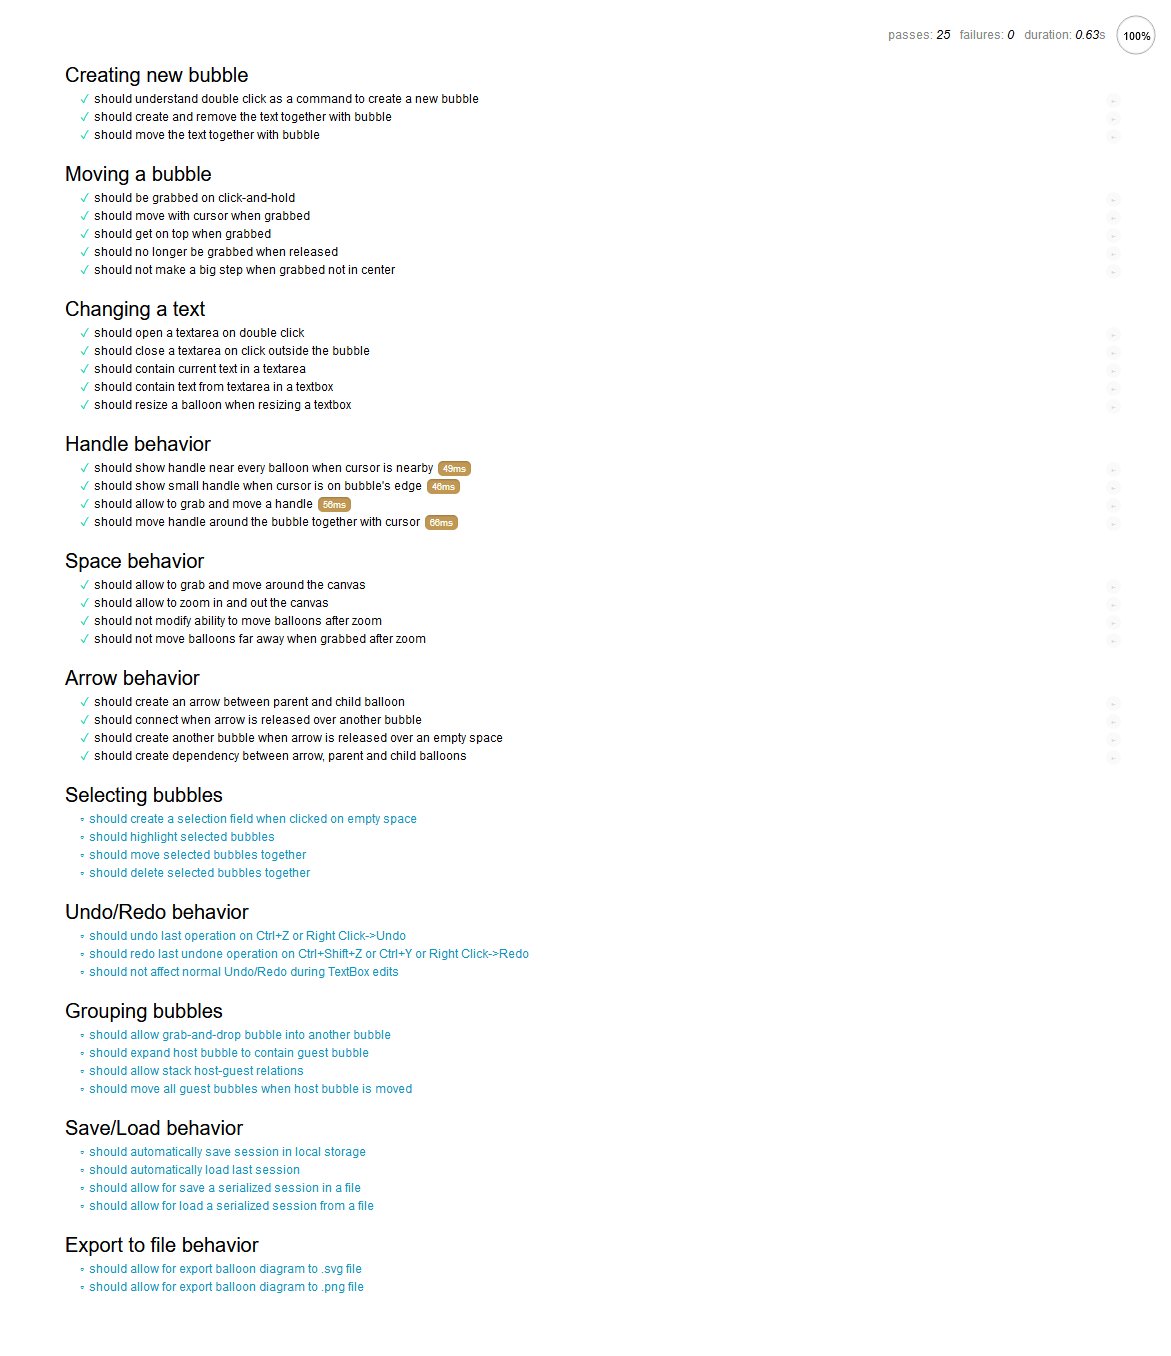
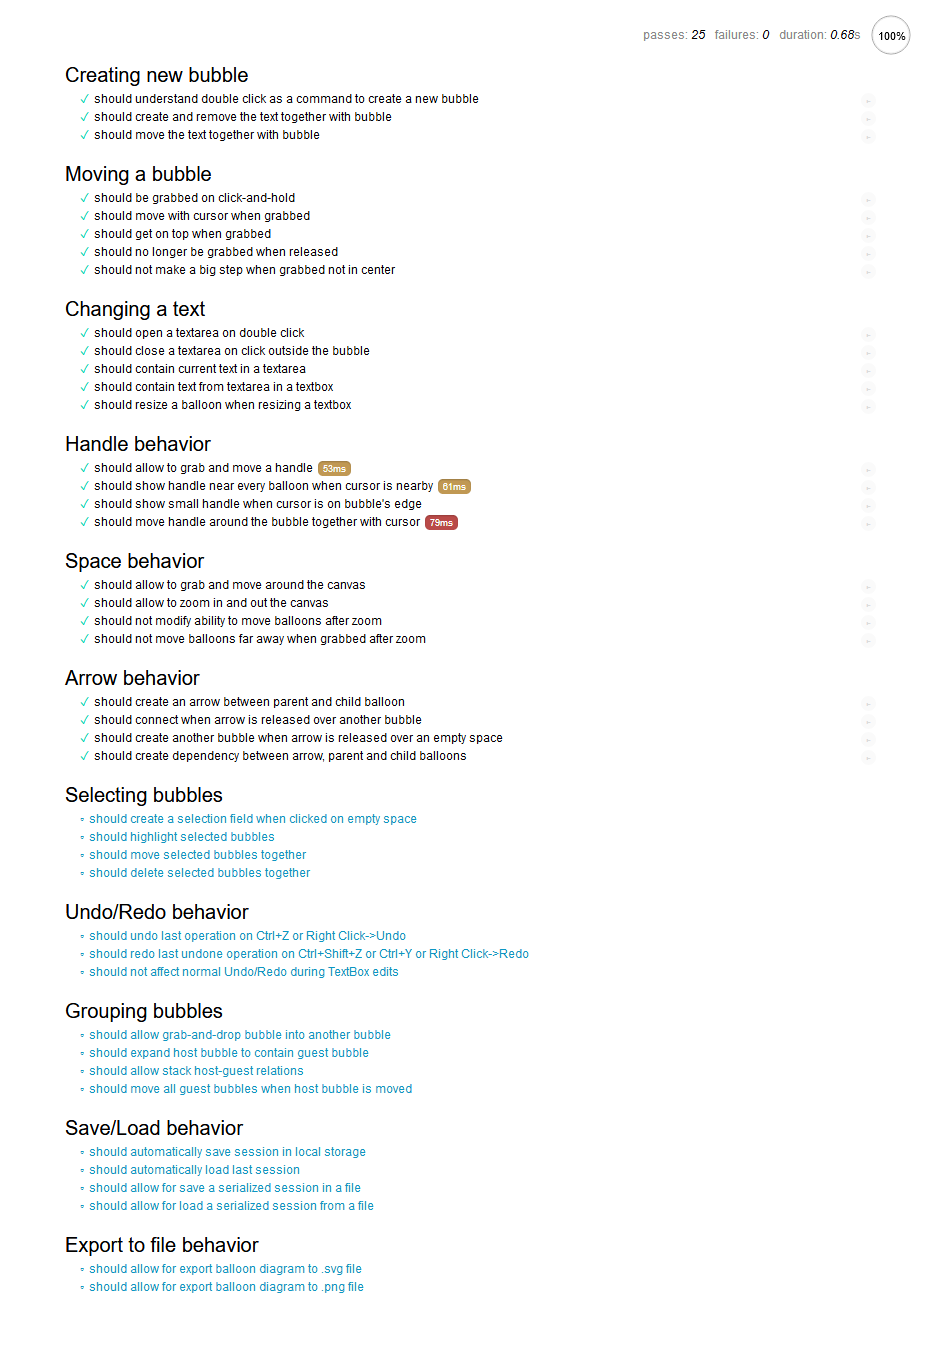
Small fixes

diff --git a/test/test.js b/test/test.js
@@ -91,18 +91,19 @@ describe('Moving a bubble',
             () => {
                 var b1 = Balloons.addBalloon(x0, y0);
                 var b2 = Balloons.addBalloon(x0, y0);
-                Mouse.click(x0, y0);
+                var [x, y] = Space.toScreenPoint(x0, y0);
+                Mouse.click(x, y);
                 b1.isGrabbed().should.equal(false);
                 b2.isGrabbed().should.equal(true);
-                Mouse.release(x0, y0);
+                Mouse.release(x, y);
                 b1.grab();
                 b1.drop();
                 b1.isGrabbed().should.equal(false);
                 b2.isGrabbed().should.equal(false);
-                Mouse.click(x0, y0);
+                Mouse.click(x, y);
                 b1.isGrabbed().should.equal(true);
                 b2.isGrabbed().should.equal(false);
-                Mouse.release(x0, y0);
+                Mouse.release(x, y);
                 Space.clear();
             });
 
@@ -201,21 +202,37 @@ describe('Changing a text',
 
 describe('Handle behavior',
     () => {
+        it('should allow to grab and move a handle',
+            () => {
+                var [dx, dy] = [100, 200];
+                Balloons.addBalloon(x0, y0);
+                Space.showHandle();
+                var handle = Space.handle;
+                var [x, y] = handle.getXY();
+                Mouse.move(0, y);
+                handle.showHandle();
+                [x, y] = Space.toScreenPoint(x, y);
+                Mouse.click(x, y);
+                Mouse.move(x - dx, y - dy);
+                var [x2, y2] = handle.getXY();
+                x.should.not.equal(x2);
+                y.should.not.equal(y2);
+                Space.clear();
+            });
+
         it('should show handle near every balloon when cursor is nearby',
             () => {
-                var dist = (a, b) => { return Math.sqrt((a[0] - b[0]) * (a[0] - b[0]) + (a[1] - b[1]) * (a[1] - b[1])); }
-
-                var b1 = Balloons.addBalloon(x0, y0);
-                var b2 = Balloons.addBalloon(x0 + 600, y0);
-                Mouse.move(x0 + 500, y0);
+                Mouse.doubleclick(x0, y0);
+                Mouse.doubleclick(x0 + 400, y0);
+                Mouse.move(x0 - 200, y0);
+                Mouse.move(x0 - 300, y0);
                 Space.showHandle();
                 var [x1, y1] = Space.handle.getXY();
-                expect(dist([x0 + 600, y0], [x1, y1])).to.be.below(120);
-
-                Mouse.move(x0 + 100, y0);
+                Mouse.move(x0 + 400, y0);
                 Space.showHandle();
                 var [x2, y2] = Space.handle.getXY();
-                expect(dist([x0 + 100, y0], [x2, y2])).to.be.below(120);
+                expect(x2 - x1).to.be.above(200);
+                Space.clear();
             });
 
         it('should show small handle when cursor is on bubble\'s edge',
@@ -228,34 +245,17 @@ describe('Handle behavior',
                 Space.clear();
             });
 
-        it('should allow to grab and move a handle',
-            () => {
-                var [dx, dy] = [100, 200];
-                Balloons.addBalloon(x0, y0);
-                Space.showHandle();
-                var handle = Space.handle;
-                var [x, y] = handle.getXY();
-                Mouse.move(0, y);
-                handle.showHandle(Balloons.getLast());
-                Mouse.click(x, y);
-                Mouse.move(x + dx, y + dy);
-                var [x2, y2] = handle.getXY();
-                x.should.not.equal(x2);
-                y.should.not.equal(y2);
-                Space.clear();
-            });
-
         it('should move handle around the bubble together with cursor',
             () => {
                 Balloons.addBalloon(x0, y0);
-                var dx1 = 50;
+                var dx = 100;
                 Space.showHandle();
-                var [x, y] = Space.toScreenPoint(x0, y0);
-                Mouse.move(x + dx1, y);
+                var [x, y] = Space.toCursorPoint(x0, y0);
+                Mouse.move(x + dx, y);
                 Space.showHandle();
                 var handle = Space.handle;
                 var [x1, y1] = handle.getXY();
-                Mouse.move(x, y);
+                Mouse.move(x - dx, y);
                 Space.showHandle();
                 var [x2, y2] = handle.getXY();
 
@@ -350,8 +350,9 @@ describe('Arrow behavior',
     () => {
         it('should create an arrow between parent and child balloon',
             () => {
+                Space.clear();
                 var b1 = Balloons.addBalloon(x0, y0);
-                Balloons.showHandle();
+                Space.showHandle();
                 var [x, y] = Space.handle.getXY();
                 [x, y] = Space.toScreenPoint(x, y);
                 Mouse.click(x + 5, y + 5);
@@ -371,7 +372,7 @@ describe('Arrow behavior',
                 var [x, y] = b2.getXY();
                 [x, y] = Space.toScreenPoint(x, y);
                 Mouse.move(x, y);
-                Balloons.showHandle();
+                Space.showHandle();
                 [x, y] = Space.handle.getXY();
                 [x, y] = Space.toScreenPoint(x, y);
                 Mouse.click(x + 1, y + 1);
@@ -391,7 +392,7 @@ describe('Arrow behavior',
                 var [x, y] = b1.getXY();
                 [x, y] = Space.toScreenPoint(x, y);
                 Mouse.move(x, y);
-                Balloons.showHandle();
+                Space.showHandle();
                 [x, y] = Space.handle.getXY();
                 [x, y] = Space.toScreenPoint(x, y);
                 Mouse.click(x + 1, y + 1);
@@ -404,7 +405,7 @@ describe('Arrow behavior',
         it('should create dependency between arrow, parent and child balloons',
             () => {
                 var b = Balloons.addBalloon(x0, y0);
-                Balloons.showHandle();
+                Space.showHandle();
                 var [x, y] = Space.handle.getXY();
                 [x, y] = Space.toScreenPoint(x, y);
                 Mouse.click(x + 5, y + 5);

diff --git a/scripts/space.js b/scripts/space.js
@@ -88,11 +88,6 @@
         this.xy = [x1, y1];
 
         if (Space.handle !== null) {
-            var closestBalloon = Balloons.findClosest(event.clientX, event.clientY);
-            if (closestBalloon !== null) {
-                Space.handle.parentBalloon = closestBalloon;
-                Space.handle.showHandle();
-            }
         }
 
         if (typeof Space.isTesting === 'undefined' && event.buttons !== 1) return;
@@ -146,7 +141,18 @@
     },
 
     showHandle() {
-        Balloons.showHandle();
+        if (Balloons.getLast() === null) return;
+        if (Space.handle === null) {
+            Space.handle = new Handle();
+        }
+        var [x, y] = this.mousePos;
+        var closestBalloon = Balloons.findClosest(x, y);
+        if (closestBalloon !== null) {
+            Space.handle.parentBalloon = closestBalloon;
+            Space.handle.showHandle();
+        }
+
+        this.handle.showHandle();
     },
 
     clear() {

diff --git a/scripts/balloons.js b/scripts/balloons.js
@@ -94,23 +94,13 @@
         Space.handle = null;
     },
 
-    showHandle() {
-        var b = this.getLast();
-        if (b !== null) {
-            if (Space.handle === null) {
-                Space.handle = new Handle();
-            }
-            //Space.handle.parentBalloon = b;
-            Space.handle.showHandle();
-        }
-    },
-
     findClosest(x, y) {
+        [x, y] = Space.toScreenPoint(x, y);
         var closest = null;
-        var dist = 9999999;
+        var dist = 9999999999;
         this.balloonsList.forEach(function (element) {
             var [x0, y0] = element.getXY();
-            var d = (x - x0) * (x - x0) + (y - y0) * (y - y0);
+            var d = Math.abs(x - x0) + Math.abs(y - y0);
             if (d < dist) {
                 closest = element;
                 dist = d;

diff --git a/scripts/handle.js b/scripts/handle.js
@@ -56,6 +56,9 @@
         else if (element.class === 'balloon') {
             b = Balloons.findFromElement(element);
         }
+        else if (element.getAttribute('class') === 'inner-text') {
+            b = Balloons.findFromElement(element.parentElement);
+        }
 
         if (b !== null) {
             this.parentBalloon.childArrows.push(this.arrow);
@@ -71,7 +74,10 @@
 
     showHandle() {
         if (this.parentBalloon === null || this.isDragged) return;
-        this.setLocation(this.parentBalloon.closestPoint());
+        var [x, y] = Space.mousePos;
+        [x, y] = Space.toCursorPoint(x, y);
+        var r = Snap.closestPoint(this.parentBalloon.path, x, y);
+        this.setLocation(r);
     }
 
     createBalloon(x, y) {

diff --git a/scripts/balloon.js b/scripts/balloon.js
@@ -101,7 +101,7 @@
         fO.setAttribute('y', y);
         fO.setAttribute('width', w);
         fO.setAttribute('height', h);
-        fO.innerHTML = '<div>text</div>';
+        fO.innerHTML = '<div class="inner-text">text</div>';
         div.after(fO);
 
         Balloons.numBalloons++;
@@ -121,11 +121,5 @@
             .remove();
 
         return path;
-    }
-
-    closestPoint() {
-        var [x, y] = Space.toCursorPoint(Space.mousePos[0], Space.mousePos[1]);
-        var r = Snap.closestPoint(this.path, x, y);
-        return r;
     }
 }
